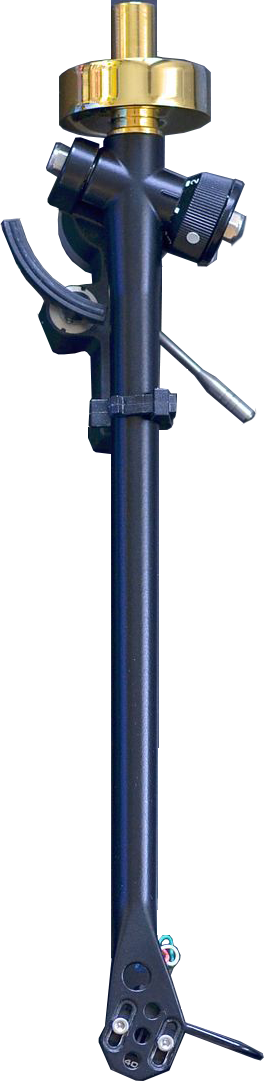
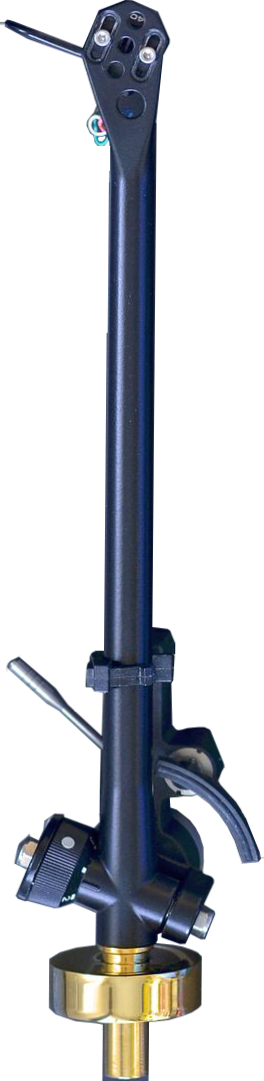
fix method image after choice song

diff --git a/index.js b/index.js
@@ -16,10 +16,9 @@ window.onload = function load() {
   context.save();
   const img = new Image();
   img.src = 'assets/3.png';
-  context.translate(canvas.clientWidth, 200);
-  context.rotate(3.14);
-  context.drawImage(img, -10, 0, 50, 180);
-  
+  context.translate(canvas.width, 0);
+  context.rotate(0);
+  context.drawImage(img, -42, 20, 50, 180);
   //canvas.addEventListener('click', () => window.console.log('click!'));
   const audio = document.querySelector('.control');
   const listOfSongs = document.querySelector('.list-songs');
@@ -31,17 +30,20 @@ window.onload = function load() {
                 console.log(this.duration);
             };
       audio.autoplay = true;
-      context.clearRect(0, 0, canvas.clientWidth, canvas.clientHeight);
       context.restore();
+      context.clearRect(0, 0, canvas.clientWidth, canvas.clientHeight);
+      
       const imgDisk = new Image();
       imgDisk.src = 'assets/1.png';
-      
       context.drawImage(imgDisk, 2, 10, 270, 270);
       context.save();
-      context.translate(canvas.clientWidth+10, 200);
-      context.rotate(3.3);
-      context.drawImage(img, 25, 0, 50, 180);
+      context.translate(canvas.clientWidth, 0);
+      context.rotate(0.1);
+      context.drawImage(img, -42, 20, 50, 180);
+      // context.rotate(0.5); max angle
+      // context.drawImage(img, -28, 25, 50, 180);
       context.restore();
+
     }
   });
 };
